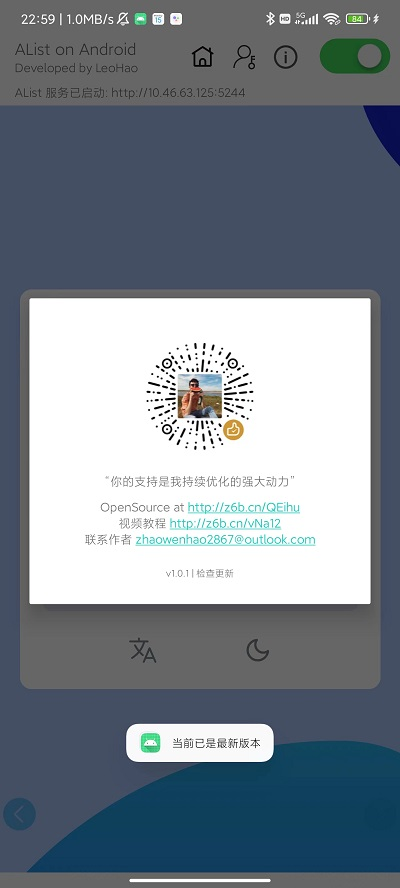
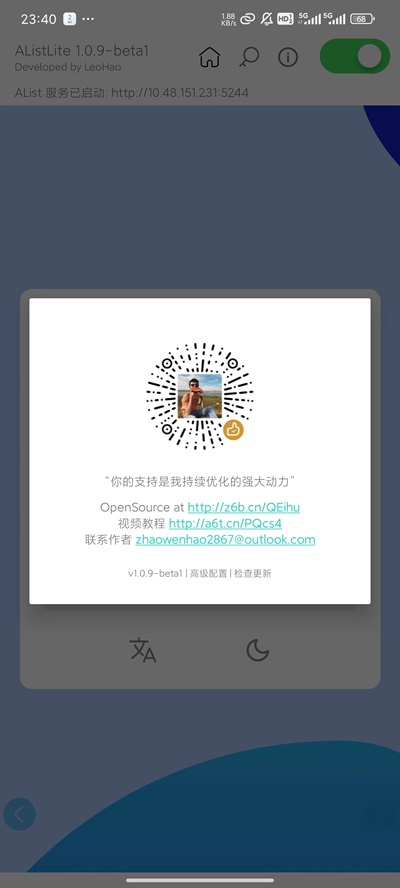
update: update README.md

diff --git a/README.md b/README.md
@@ -4,9 +4,10 @@
   <a href="https://github.com/LeoHaoVIP/AListLiteAndroid/releases/latest" target="_blank" rel="noopener noreferrer">
    <img alt="release" src="https://img.shields.io/github/v/release/LeoHaoVIP/AListLiteAndroid">
    </a>
-   <img alt="platform" src="https://img.shields.io/badge/platform-android-ff69b4.svg">
+  <img alt="platform" src="https://img.shields.io/badge/platform-android-ff69b4.svg">
  <img alt="language" src="https://img.shields.io/badge/language-java-green.svg">
 </p>
+
 
 # AListLite
 
@@ -69,10 +70,21 @@
 新版本将发布在 [GitHub Release](https://github.com/LeoHaoVIP/AListLiteAndroid/releases/latest)。对于已安装 APP 的用户，点击标题栏中 <img src="./README/info.png" style="height: 1em;">按钮，在版本信息页面点击下方“检查更新”即可获取最新版本。
 
 <center class="half">
-<img src="./README/update-page.jpg" alt="检查更新页面" style="zoom:15%"/>
+<img src="./README/update-page.jpg" alt="版本信息页面" style="zoom:15%"/>
 </center>
 
+# Advanced
+
+为最大程度匹配 AList 本身的能力，AListLite 支持用户手动修改 AList 配置文件，文件位置为 `/Android/data/com.leohao.android.alistlite/files/data/config.json`，配置修改入口为版本信息页面下方的`高级配置`。
+
+> 注意：错误的配置可能导致服务无法启动，请谨慎操作！
+
+<center class="half">
+<img src="./README/config-manage.jpg" alt="高级配置管理页面" style="zoom:15%"/>
+</center>
 
 # Support
 
 Email: <zhaowenhao2867@outlook.com>
+
+Bilibili: [AListLite | 一款支持运行 AList 服务的 Android 应用](https://www.bilibili.com/video/BV1PA4m1G7Ui)
